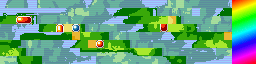
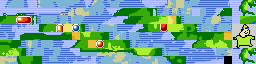
finished region map

diff --git a/src/data/region_map/region_map_entries.h b/src/data/region_map/region_map_entries.h
@@ -234,7 +234,7 @@ const struct RegionMapLocation gRegionMapEntries[] = {
     [MAPSEC_FIERY_PATH2]                = {7, 3, 1, 1, sMapName_FieryPath},
     [MAPSEC_FIVE_ISLAND]                = {0, 0, 1, 1, sMapName_FiveIsland},
     [MAPSEC_FIVE_ISLE_MEADOW]           = {0, 0, 1, 1, sMapName_FiveIsleMeadow},
-    [MAPSEC_FORTREE_CITY]               = {12, 0, 1, 1, sMapName_FortreeCity},
+    [MAPSEC_FORTREE_CITY]               = {11, 6, 1, 2, sMapName_FortreeCity},
     [MAPSEC_FOUR_ISLAND]                = {0, 0, 1, 1, sMapName_FourIsland},
     [MAPSEC_FUCHSIA_CITY]               = {0, 0, 1, 1, sMapName_FuchsiaCity},
     [MAPSEC_GRANITE_CAVE]               = {1, 13, 1, 1, sMapName_GraniteCave},
@@ -250,20 +250,20 @@ const struct RegionMapLocation gRegionMapEntries[] = {
     [MAPSEC_KINDLE_ROAD]                = {0, 0, 1, 1, sMapName_KindleRoad},
     [MAPSEC_LAVARIDGE_TOWN]             = {5, 3, 1, 1, sMapName_LavaridgeTown},
     [MAPSEC_LAVENDER_TOWN]              = {0, 0, 1, 1, sMapName_LavenderTown},
-    [MAPSEC_LILYCOVE_CITY]              = {18, 3, 2, 1, sMapName_LilycoveCity},
+    [MAPSEC_LILYCOVE_CITY]              = {14, 6, 1, 1, sMapName_LilycoveCity},
     [MAPSEC_LIPTOO_CHAMBER]             = {0, 0, 1, 1, sMapName_LiptooChamber},
-    [MAPSEC_LITTLEROOT_TOWN]            = {4, 11, 1, 1, sMapName_LittlerootTown},
+    [MAPSEC_LITTLEROOT_TOWN]            = {4, 6, 1, 1, sMapName_LittlerootTown},
     [MAPSEC_LOST_CAVE]                  = {0, 0, 1, 1, sMapName_LostCave},
     [MAPSEC_MAGMA_HIDEOUT]              = {6, 3, 1, 1, sMapName_MagmaHideout},
     [MAPSEC_MARINE_CAVE]                = {0, 0, 1, 1, sMapName_MarineCave},
-    [MAPSEC_MAUVILLE_CITY]              = {8, 6, 2, 1, sMapName_MauvilleCity},
+    [MAPSEC_MAUVILLE_CITY]              = {7, 10, 2, 1, sMapName_MauvilleCity},
     [MAPSEC_MEMORIAL_PILLAR]            = {0, 0, 1, 1, sMapName_MemorialPillar},
     [MAPSEC_METEOR_FALLS]               = {0, 3, 1, 1, sMapName_MeteorFalls},
     [MAPSEC_METEOR_FALLS2]              = {1, 2, 1, 1, sMapName_MeteorFalls},
     [MAPSEC_MIRAGE_ISLAND]              = {17, 10, 1, 1, sMapName_MirageIsland},
     [MAPSEC_MIRAGE_TOWER]               = {8, 2, 1, 1, sMapName_MirageTower},
     [MAPSEC_MONEAN_CHAMBER]             = {0, 0, 1, 1, sMapName_MoneanChamber},
-    [MAPSEC_MOSSDEEP_CITY]              = {24, 5, 2, 1, sMapName_MossdeepCity},
+    [MAPSEC_MOSSDEEP_CITY]              = {13, 4, 2, 1, sMapName_MossdeepCity},
     [MAPSEC_MT_CHIMNEY]                 = {6, 2, 1, 1, sMapName_MtChimney},
     [MAPSEC_MT_EMBER]                   = {0, 0, 1, 1, sMapName_MtEmber},
     [MAPSEC_MT_MOON]                    = {0, 0, 1, 1, sMapName_MtMoon},
@@ -351,7 +351,7 @@ const struct RegionMapLocation gRegionMapEntries[] = {
     [MAPSEC_ROUTE_8]                    = {0, 0, 1, 1, sMapName_Route8},
     [MAPSEC_ROUTE_9]                    = {0, 0, 1, 1, sMapName_Route9},
     [MAPSEC_RUIN_VALLEY]                = {0, 0, 1, 1, sMapName_RuinValley},
-    [MAPSEC_RUSTBORO_CITY]              = {0, 5, 1, 2, sMapName_RustboroCity},
+    [MAPSEC_RUSTBORO_CITY]              = {11, 10, 1, 1, sMapName_RustboroCity},
     [MAPSEC_RUSTURF_TUNNEL]             = {2, 5, 1, 1, sMapName_RusturfTunnel},
     [MAPSEC_SAFARI_ZONE]                = {16, 2, 1, 1, sMapName_SafariZone},
     [MAPSEC_SAFFRON_CITY]               = {0, 0, 1, 1, sMapName_SaffronCity},
@@ -374,7 +374,7 @@ const struct RegionMapLocation gRegionMapEntries[] = {
     [MAPSEC_SILPH_CO]                   = {0, 0, 1, 1, sMapName_SilphCo},
     [MAPSEC_SIX_ISLAND]                 = {0, 0, 1, 1, sMapName_SixIsland},
     [MAPSEC_SKY_PILLAR]                 = {19, 10, 1, 1, sMapName_SkyPillar},
-    [MAPSEC_SLATEPORT_CITY]             = {8, 10, 1, 2, sMapName_SlateportCity},
+    [MAPSEC_SLATEPORT_CITY]             = {4, 10, 1, 1, sMapName_SlateportCity},
     [MAPSEC_SOOTOPOLIS_CITY]            = {21, 7, 1, 1, sMapName_SootopolisCity},
     [MAPSEC_SOUTHERN_ISLAND]            = {12, 14, 1, 1, sMapName_SouthernIsland},
     [MAPSEC_SPECIAL_AREA]               = {0, 0, 1, 1, sMapName_SpecialArea},
